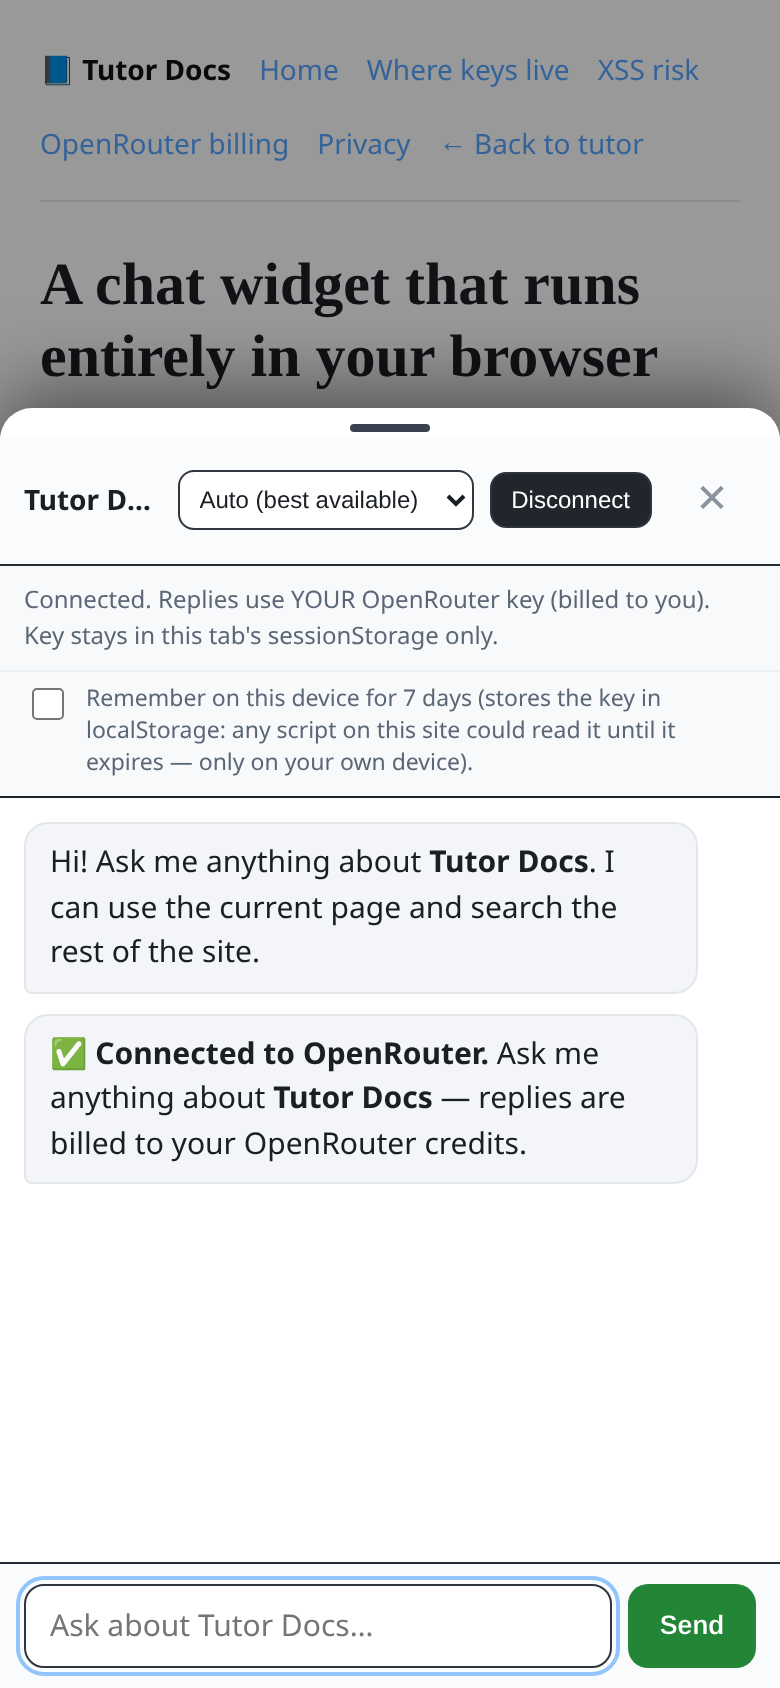
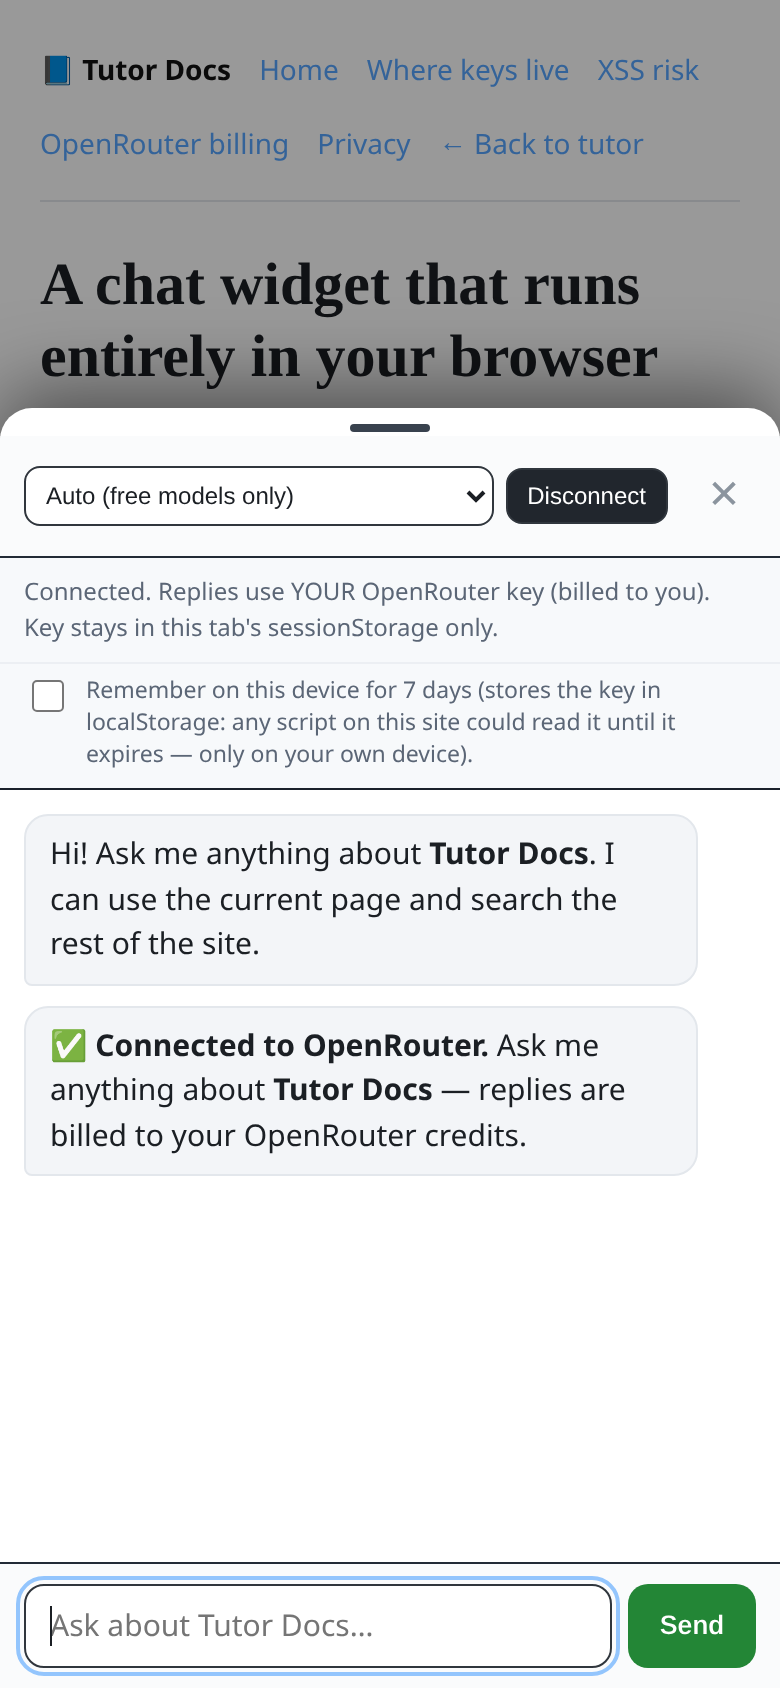
Widget: default model 'Auto (free models only)' (openrouter/free)
- widget.js built-in default, pilot pages' data-default-model and README embed snippet -> openrouter/free
- one-time migration: a stored 'openrouter/auto' (old default) becomes free once; an explicit Auto (best available) pick afterwards is respected; unknown ids fall back to default
- 'Auto (best available)' stays in the picker; pilot copy updated
- narrow phones: hide the truncated title so the full picker label fits
- tests: unit (pickModel/default) + e2e (picker default, request model, migration, explicit pick wins, label fits); docs/widget-default-free.png

Changed region(s): [[0.0308, 0.2773, 0.9231, 0.7085], [0.8923, 0.2773, 0.9538, 0.3081]]

diff --git a/public/widget.js b/public/widget.js
@@ -5,7 +5,7 @@
  *   <script src="/assets/widget.js"
  *           data-site-name="My site"
  *           data-context-selector="article"
- *           data-default-model="openrouter/auto"
+ *           data-default-model="openrouter/free"
  *           data-index="/site-index.json"></script>
  *
  * - OpenRouter OAuth PKCE (S256) done entirely in the browser. The sk-or key
@@ -40,7 +40,9 @@
   var PKCE_TTL = 10 * 60 * 1000;            // matches OpenRouter's 10-minute code expiry
   var REMEMBER_TTL = 7 * 24 * 3600 * 1000;  // opt-in "remember on this device"
 
-  // Curated models for the picker. Default Auto; includes free models.
+  // Default = "Auto (free models only)". "Auto (best available)" stays selectable (may bill paid models).
+  var DEFAULT_MODEL = "openrouter/free", OLD_DEFAULT = "openrouter/auto", K_MIG = "btw_model_mig_free";
+  // Curated models for the picker. Includes free models.
   var MODELS = [
     { id: "openrouter/auto", label: "Auto (best available)", note: "May route to paid models — billed to YOUR OpenRouter credits." },
     { id: "openrouter/free", label: "Auto (free models only)", note: "Free only; shared pool, often rate-limited." },
@@ -153,10 +155,19 @@
     return msgs;
   }
 
+  // Choose the picker value: a saved choice wins, except a saved OLD default ("openrouter/auto") that was never
+  // explicitly re-picked is migrated ONCE to the configured default; unknown ids fall back to the default.
+  function pickModel(saved, migrated, configuredDefault, models) {
+    var def = configuredDefault || DEFAULT_MODEL;
+    var known = function (id) { return (models || MODELS).some(function (m) { return m.id === id; }); };
+    if (saved === OLD_DEFAULT && !migrated) saved = def;
+    return saved && known(saved) ? saved : (known(def) ? def : DEFAULT_MODEL);
+  }
+
   var INTERNALS = {
     b64url: b64url, makeVerifier: makeVerifier, pkceChallenge: pkceChallenge, randState: randState,
     cleanText: cleanText, tokenize: tokenize, bm25Index: bm25Index, bm25Search: bm25Search,
-    buildMessages: buildMessages, MODELS: MODELS
+    buildMessages: buildMessages, MODELS: MODELS, DEFAULT_MODEL: DEFAULT_MODEL, pickModel: pickModel
   };
   // Always expose internals for unit tests (Node: no window -> globalThis).
   G.__btw = INTERNALS;
@@ -210,7 +221,7 @@
   var cfg = {
     siteName: (ME && ME.getAttribute("data-site-name")) || "this site",
     selector: (ME && ME.getAttribute("data-context-selector")) || "article, main, [role=main], body",
-    defaultModel: (ME && ME.getAttribute("data-default-model")) || "openrouter/auto",
+    defaultModel: (ME && ME.getAttribute("data-default-model")) || DEFAULT_MODEL,
     indexUrl: (ME && ME.getAttribute("data-index")) || "",
     assetBase: (function () {
       try { var u = new URL(ME.src); return u.href.slice(0, u.href.lastIndexOf("/") + 1); } catch (e) { return "/static/"; }
@@ -408,7 +419,9 @@
     var conn = h("button", "btw-conn"); conn.type = "button";
     var sel = document.createElement("select"); sel.className = "btw-model"; sel.setAttribute("aria-label", "Model");
     MODELS.forEach(function (m) { var o = document.createElement("option"); o.value = m.id; o.textContent = m.label; sel.appendChild(o); });
-    sel.value = sget(K_MODEL) || cfg.defaultModel;
+    sel.value = pickModel(sget(K_MODEL), sget(K_MIG) === "1", cfg.defaultModel);
+    if (sget(K_MODEL) && sget(K_MODEL) !== sel.value) sset(K_MODEL, sel.value); // persist the one-time migration
+    sset(K_MIG, "1"); // from now on an explicit "Auto (best available)" pick is respected
     var close = h("button", "btw-close", "✕"); close.type = "button"; close.setAttribute("aria-label", "Close");
     head.appendChild(title); head.appendChild(sel); head.appendChild(conn); head.appendChild(close);
 

diff --git a/public/widget/index.html b/public/widget/index.html
@@ -9,7 +9,7 @@
 <p class="muted">Pilot of the client-side OpenRouter widget — no backend, built to drop into any static GitHub Pages site.</p>
 <p>This documentation site is a live demo of a <strong>framework-free chat widget</strong> you can add to a static website with a single script tag. There is no server behind the chat: everything — signing in to OpenRouter, holding the key, calling the model, rendering the answer — happens in your browser.</p>
 <h2>How it works</h2>
-<p>Tap <strong>Ask</strong> in the corner, then <strong>Connect OpenRouter</strong>. The widget runs an OAuth PKCE flow and brings back a scoped <code>sk-or</code> key. Your messages go straight to <code>https://openrouter.ai/api/v1/chat/completions</code> with streaming. The default model is <code>openrouter/auto</code>, and you can switch to free models from the picker.</p>
+<p>Tap <strong>Ask</strong> in the corner, then <strong>Connect OpenRouter</strong>. The widget runs an OAuth PKCE flow and brings back a scoped <code>sk-or</code> key. Your messages go straight to <code>https://openrouter.ai/api/v1/chat/completions</code> with streaming. The default model is <code>openrouter/free</code> (“Auto (free models only)”), so a default chat costs nothing; you can switch to <code>openrouter/auto</code> (“Auto (best available)”, may bill paid models) from the picker.</p>
 <h2>It reads this page, and the whole site</h2>
 <p>The widget sends the visible text of the page you are on as context, so it can answer questions about what you are reading. It also loads a small <code>site-index.json</code> built at deploy time and does lightweight in-browser retrieval (BM25) across every page, so it can answer site-wide questions and cite the page it used.</p>
 <p>Try asking: <em>"Where is my OpenRouter key stored?"</em>, <em>"Why is a client-side key an XSS risk?"</em>, or <em>"Who pays for the model calls?"</em> — the answer should link to the matching page.</p>
@@ -17,5 +17,5 @@
 <p>The pilot pages are locked down with a <strong>meta-tag CSP</strong>: <code>script-src 'self'</code> and <code>connect-src 'self' https://openrouter.ai</code>, with no inline scripts, no inline styles and no eval. Model output is rendered through the vendored <code>marked</code> + <code>DOMPurify</code> pipeline, so a hostile reply cannot inject script. See the linked pages for where the key lives, the XSS trade-off, and who pays.</p>
 <div class="callout">This widget is deliberately separate from the Browser Tutor's own server-side OpenRouter session. It uses its own <code>btw_*</code> sessionStorage keys and never touches the tutor's login cookie or saved chat.</div>
 </article></div>
-<script src="/static/widget.js" data-site-name="Tutor Docs" data-context-selector="article" data-default-model="openrouter/auto" data-index="/widget/site-index.json"></script>
+<script src="/static/widget.js" data-site-name="Tutor Docs" data-context-selector="article" data-default-model="openrouter/free" data-index="/widget/site-index.json"></script>
 </body></html>

diff --git a/public/widget/openrouter.html b/public/widget/openrouter.html
@@ -8,10 +8,10 @@
 <h1>Who pays for the model calls</h1>
 <p>The visitor pays. The widget uses <strong>your</strong> OpenRouter account via a key you authorize through OAuth, so every chat request is billed to your OpenRouter credits — never to the site owner. The site owner ships only static files and has no API key of their own in the page.</p>
 <h2>Default and free models</h2>
-<p>The default model is <code>openrouter/auto</code>, which routes to the best available model and <strong>may pick a paid model</strong>, billing your credits. The picker also lists free models such as <code>openrouter/free</code> and various <code>:free</code> models; these cost nothing but share a rate-limited pool, so they can be slower or return 429s.</p>
+<p>The default model is <code>openrouter/free</code> (“Auto (free models only)”): it only routes to free models, so a default chat costs nothing, but free models share a rate-limited pool and can be slower or return 429s. If you pick <code>openrouter/auto</code> (“Auto (best available)”) it routes to the best available model and <strong>may pick a paid model</strong>, billing your credits. The picker also lists individual <code>:free</code> models.</p>
 <h2>Abuse and cost exposure</h2>
 <p>Because there is no server, the only cost exposure is the visitor's own key. There is no shared budget to drain and no server-side rate limit to tune; the natural limit is each visitor's own credits and OpenRouter's own per-key limits.</p>
 <div class="callout">To stop spending, tap <strong>Disconnect</strong> (which drops the key from this tab) and revoke the key at <code>openrouter.ai/settings/keys</code>.</div>
 </article></div>
-<script src="/static/widget.js" data-site-name="Tutor Docs" data-context-selector="article" data-default-model="openrouter/auto" data-index="/widget/site-index.json"></script>
+<script src="/static/widget.js" data-site-name="Tutor Docs" data-context-selector="article" data-default-model="openrouter/free" data-index="/widget/site-index.json"></script>
 </body></html>

diff --git a/public/widget/xss.html b/public/widget/xss.html
@@ -13,5 +13,5 @@
 <p>The pilot pages ship a strict <strong>meta-tag CSP</strong> (<code>script-src 'self'</code>, no <code>unsafe-inline</code>, no <code>eval</code>), so injected inline scripts will not run. Model replies are rendered through <code>marked</code> + <code>DOMPurify</code>, so a prompt-injected answer containing <code>&lt;script&gt;</code> or <code>&lt;img onerror&gt;</code> is neutralised, never executed. A meta CSP cannot set <code>frame-ancestors</code> or <code>report-uri</code>, so clickjacking protection still needs a real header on hosts that allow it.</p>
 <div class="callout">Keys in client-side storage are convenient and backend-free, but they are only as safe as the page is free of XSS. Treat the key as the visitor's to protect.</div>
 </article></div>
-<script src="/static/widget.js" data-site-name="Tutor Docs" data-context-selector="article" data-default-model="openrouter/auto" data-index="/widget/site-index.json"></script>
+<script src="/static/widget.js" data-site-name="Tutor Docs" data-context-selector="article" data-default-model="openrouter/free" data-index="/widget/site-index.json"></script>
 </body></html>

diff --git a/public/widget/storage.html b/public/widget/storage.html
@@ -17,5 +17,5 @@
 <p>Apart from the short-lived sign-in entry above and the opt-in remember copy, the key never goes to <code>localStorage</code>, and the widget never touches the tutor's own login cookie <code>bt_sess</code> or its saved transcript <code>bt_chat</code>. It only uses its own <code>btw_</code>-prefixed keys. Conversation history also lives only in sessionStorage and disappears when the tab closes.</p>
 <div class="callout">Rule of thumb: a key in sessionStorage is readable by any JavaScript running on this origin. That is the visitor's own risk, which the <a href="/widget/xss.html">XSS page</a> explains.</div>
 </article></div>
-<script src="/static/widget.js" data-site-name="Tutor Docs" data-context-selector="article" data-default-model="openrouter/auto" data-index="/widget/site-index.json"></script>
+<script src="/static/widget.js" data-site-name="Tutor Docs" data-context-selector="article" data-default-model="openrouter/free" data-index="/widget/site-index.json"></script>
 </body></html>

diff --git a/public/widget/privacy.html b/public/widget/privacy.html
@@ -12,5 +12,5 @@
 <h2>Where things are stored</h2>
 <p>Your key, chosen model and chat history live in this tab's <code>sessionStorage</code> and are gone when the tab closes. The only localStorage entries are a one-time sign-in verifier (deleted on return, 10-minute cap) and, only if you opt in, a 7-day remembered key. See <a href="/widget/storage.html">where your key lives</a> for the exact key names.</p>
 </article></div>
-<script src="/static/widget.js" data-site-name="Tutor Docs" data-context-selector="article" data-default-model="openrouter/auto" data-index="/widget/site-index.json"></script>
+<script src="/static/widget.js" data-site-name="Tutor Docs" data-context-selector="article" data-default-model="openrouter/free" data-index="/widget/site-index.json"></script>
 </body></html>

diff --git a/public/widget.css b/public/widget.css
@@ -37,3 +37,5 @@
 .btw-remember input { margin-top: 2px; width: 16px; height: 16px; flex: 0 0 auto; }
 .btw-debug { margin: 0; max-height: 120px; overflow: auto; padding: 6px 12px; font: 11px/1.45 ui-monospace, Menlo, monospace; color: #7ee787; background: #05080c; border-bottom: 1px solid #1a212b; white-space: pre-wrap; }
 @media (prefers-color-scheme: light) { .btw-remember { background: #f7f9fb; color: #5b6676; } }
+/* Narrow phones: the site name is already in the sheet's aria-label and the composer placeholder; give the model picker the room so "Auto (free models only)" reads in full. */
+@media (max-width: 420px) { .btw-title { display: none; } .btw-head { gap: 6px; padding: 8px 6px 8px 12px; } }

diff --git a/README.md b/README.md
@@ -117,7 +117,7 @@ would bypass the allow-list and open the app to anyone with an OpenRouter accoun
 
 ## Client-side chat widget (static-site pilot)
 
-`/widget/` is a pilot of a **framework-free, backend-free chat widget** you can drop into any static site (e.g. GitHub Pages) with a single `<script>` tag. There are **zero calls back to this server**: the widget runs OpenRouter OAuth PKCE (S256) in the browser, holds the issued `sk-or` key in **sessionStorage** by default (cleared on tab close; **Disconnect** wipes it; opt-in *Remember on this device* keeps a 7-day copy in localStorage). The PKCE verifier + state sit in localStorage for ≤10 minutes, one-time, so the OAuth return still works when it lands in a new tab/Custom Tab on Android; add `?btw_debug=1` to see the callback steps (never the code or key), and calls `https://openrouter.ai/api/v1/chat/completions` directly with streaming (default `openrouter/auto`, free models in the picker). Replies render through the same vendored **marked + DOMPurify** pipeline (never raw `innerHTML`).
+`/widget/` is a pilot of a **framework-free, backend-free chat widget** you can drop into any static site (e.g. GitHub Pages) with a single `<script>` tag. There are **zero calls back to this server**: the widget runs OpenRouter OAuth PKCE (S256) in the browser, holds the issued `sk-or` key in **sessionStorage** by default (cleared on tab close; **Disconnect** wipes it; opt-in *Remember on this device* keeps a 7-day copy in localStorage). The PKCE verifier + state sit in localStorage for ≤10 minutes, one-time, so the OAuth return still works when it lands in a new tab/Custom Tab on Android; add `?btw_debug=1` to see the callback steps (never the code or key), and calls `https://openrouter.ai/api/v1/chat/completions` directly with streaming (default `openrouter/free` = *Auto (free models only)*; *Auto (best available)* `openrouter/auto` and individual free models stay in the picker). Replies render through the same vendored **marked + DOMPurify** pipeline (never raw `innerHTML`).
 
 It is **page-aware and site-aware**: it sends the current page's visible text (capped, control-chars stripped, delimited as data) and does lightweight in-browser **BM25 retrieval** over a build-time `site-index.json`, sending the top chunks and **citing the source pages as links**. It is isolated from the tutor's own server-side OpenRouter session — it uses its own `btw_*` storage keys and never touches `bt_sess` or `bt_chat`, and it is deliberately **not** GitHub-gated (the realistic static-site case). The only cost exposure is the visitor's own key.
 
@@ -129,7 +129,7 @@ It is **page-aware and site-aware**: it sends the current page's visible text (c
 <script src="/assets/widget.js"
         data-site-name="My Docs"
         data-context-selector="article"
-        data-default-model="openrouter/auto"
+        data-default-model="openrouter/free"
         data-index="/site-index.json"></script>
 ```
 
